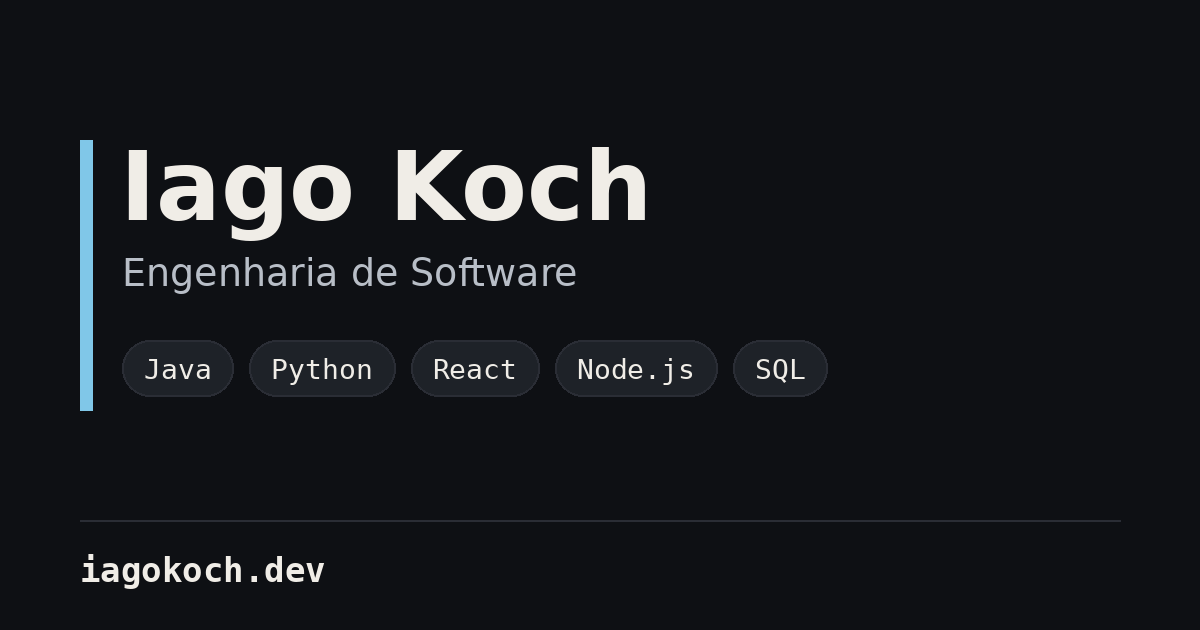
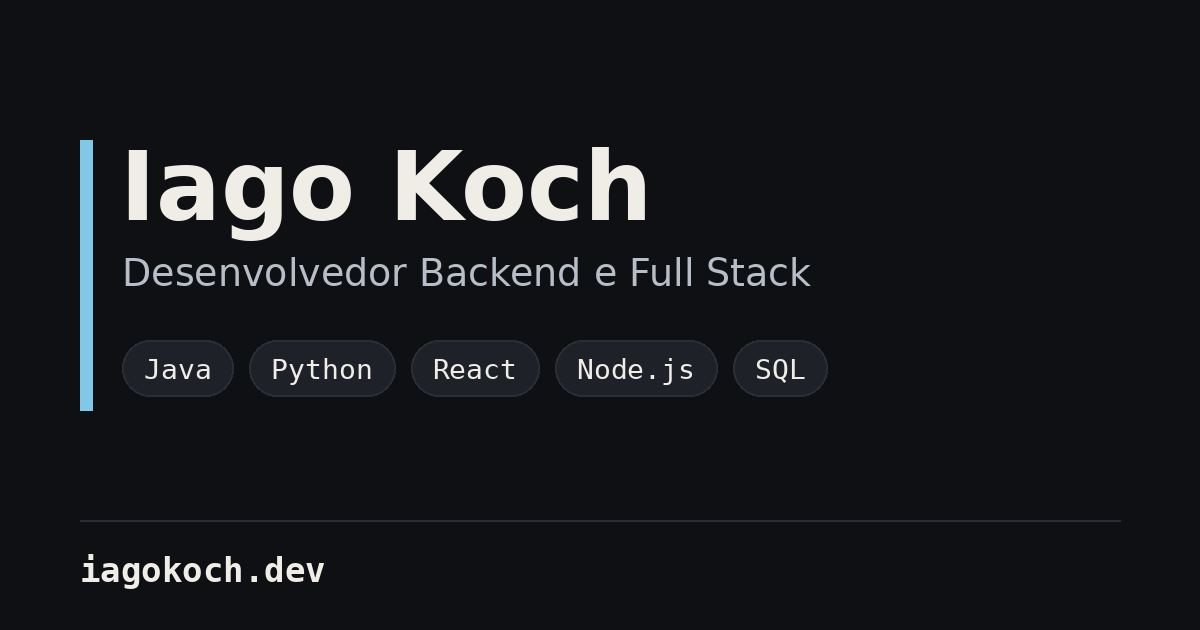
SEO: cargo 'Desenvolvedor Backend e Full Stack' em title, og e JSON-LD
Claude-Session: https://claude.ai/code/session_01GfPgVv18S1G8LtX3b7VR4m

Changed region(s): [[0.0925, 0.3921, 0.6783, 0.4524]]

diff --git a/index.html b/index.html
@@ -4,7 +4,7 @@
     <meta charset="UTF-8" />
     <meta name="viewport" content="width=device-width, initial-scale=1.0" />
     <link rel="icon" type="image/svg+xml" href="/favicon.svg" />
-    <title>Iago Koch · Estudante de Engenharia de Software</title>
+    <title>Iago Koch · Desenvolvedor Backend e Full Stack</title>
     <meta
       name="description"
       content="Portfólio de Iago Koch: APIs e produtos web com Python, Java, Node.js, React e bancos relacionais."
@@ -15,7 +15,7 @@
     <meta property="og:type" content="website" />
     <meta property="og:locale" content="pt_BR" />
     <meta property="og:site_name" content="Iago Koch" />
-    <meta property="og:title" content="Iago Koch · Estudante de Engenharia de Software" />
+    <meta property="og:title" content="Iago Koch · Desenvolvedor Backend e Full Stack" />
     <meta
       property="og:description"
       content="APIs e produtos web com Python, Java, Node.js, React e bancos relacionais."
@@ -24,7 +24,7 @@
     <meta property="og:image" content="https://iagokoch.dev/og-image.png" />
     <meta property="og:image:width" content="1200" />
     <meta property="og:image:height" content="630" />
-    <meta property="og:image:alt" content="Iago Koch, Engenharia de Software" />
+    <meta property="og:image:alt" content="Iago Koch, Desenvolvedor Backend e Full Stack" />
     <meta name="twitter:card" content="summary_large_image" />
     <meta name="twitter:image" content="https://iagokoch.dev/og-image.png" />
 
@@ -35,7 +35,7 @@
         "name": "Iago Koch",
         "alternateName": "Iago Neermann Koch",
         "url": "https://iagokoch.dev",
-        "jobTitle": "Estudante de Engenharia de Software",
+        "jobTitle": "Desenvolvedor Backend e Full Stack",
         "description": "APIs e produtos web com Python, Java, Node.js, React e bancos relacionais.",
         "address": { "@type": "PostalAddress", "addressLocality": "Joinville", "addressRegion": "SC", "addressCountry": "BR" },
         "alumniOf": { "@type": "CollegeOrUniversity", "name": "Universidade Católica de Santa Catarina" },

diff --git a/src/i18n/pt.ts b/src/i18n/pt.ts
@@ -3,7 +3,7 @@ import { ok, out } from './types'
 // Fonte da verdade da estrutura: en.ts precisa ter exatamente o mesmo formato
 export const pt = {
   meta: {
-    title: 'Iago Koch · Estudante de Engenharia de Software',
+    title: 'Iago Koch · Desenvolvedor Backend e Full Stack',
     description: 'Portfólio de Iago Koch: APIs e produtos web com Python, Java, Node.js, React e bancos relacionais.',
   },
   nav: {

diff --git a/src/i18n/en.ts b/src/i18n/en.ts
@@ -3,7 +3,7 @@ import type { Dict } from './pt'
 
 export const en: Dict = {
   meta: {
-    title: 'Iago Koch · Software Engineering Student',
+    title: 'Iago Koch · Backend and Full Stack Developer',
     description: 'Iago Koch’s portfolio: APIs and web products built with Python, Java, Node.js, React and relational databases.',
   },
   nav: {
